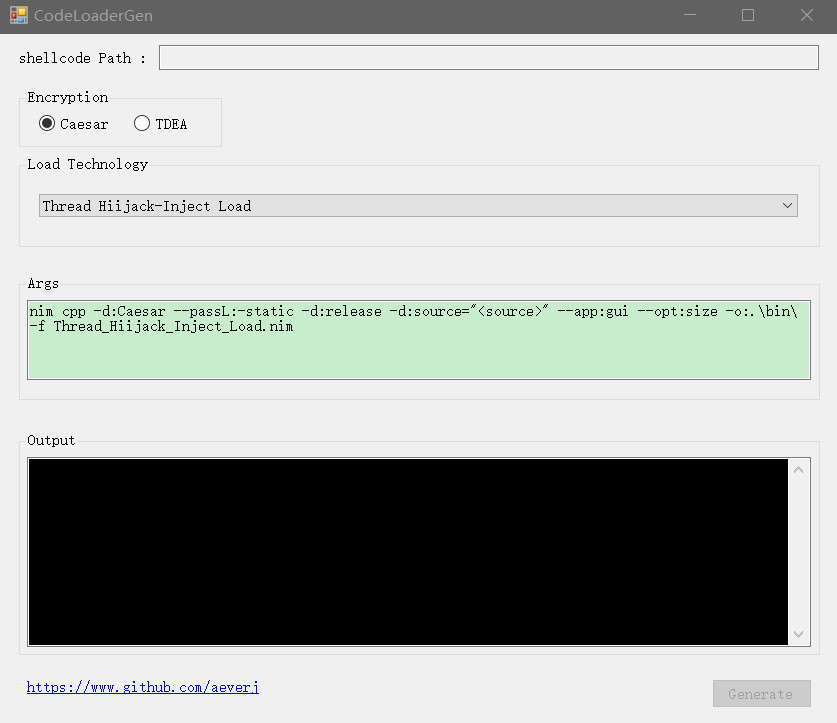
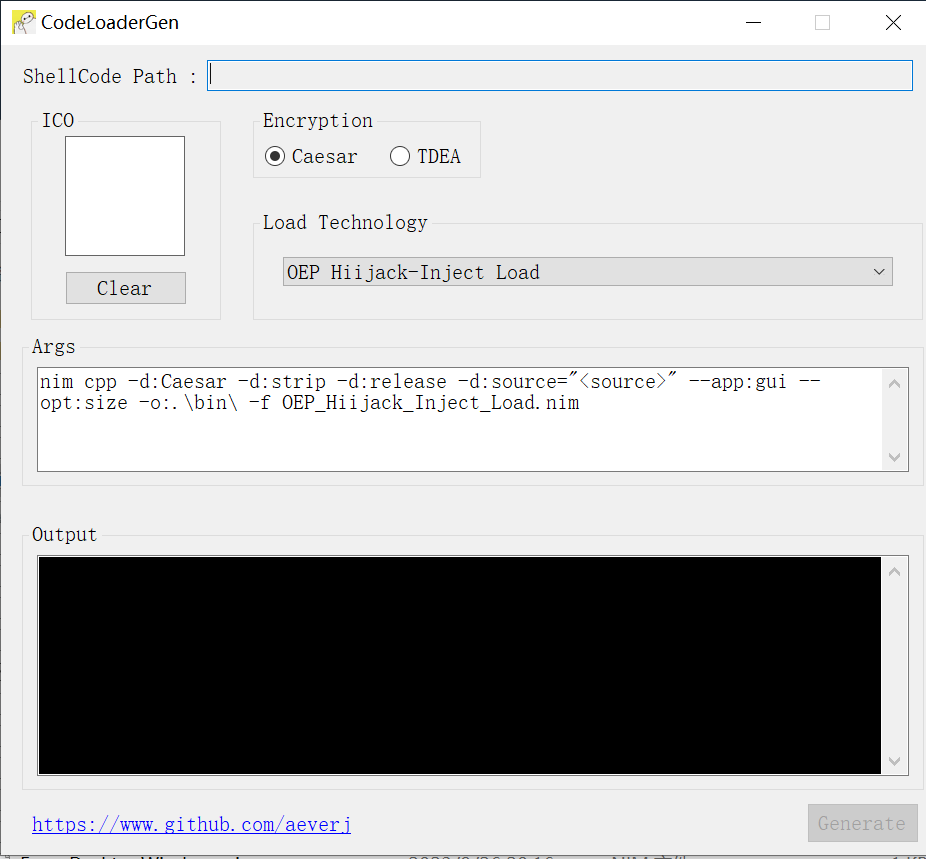
update README.md and pic

diff --git a/README.md b/README.md
@@ -58,7 +58,7 @@
 
 **1、打开生成器**
 
-**2、将payload拖动到该窗口**
+**2、将payload和图标拖动到该窗口**
 
 ![first](pic/first.png)
 
